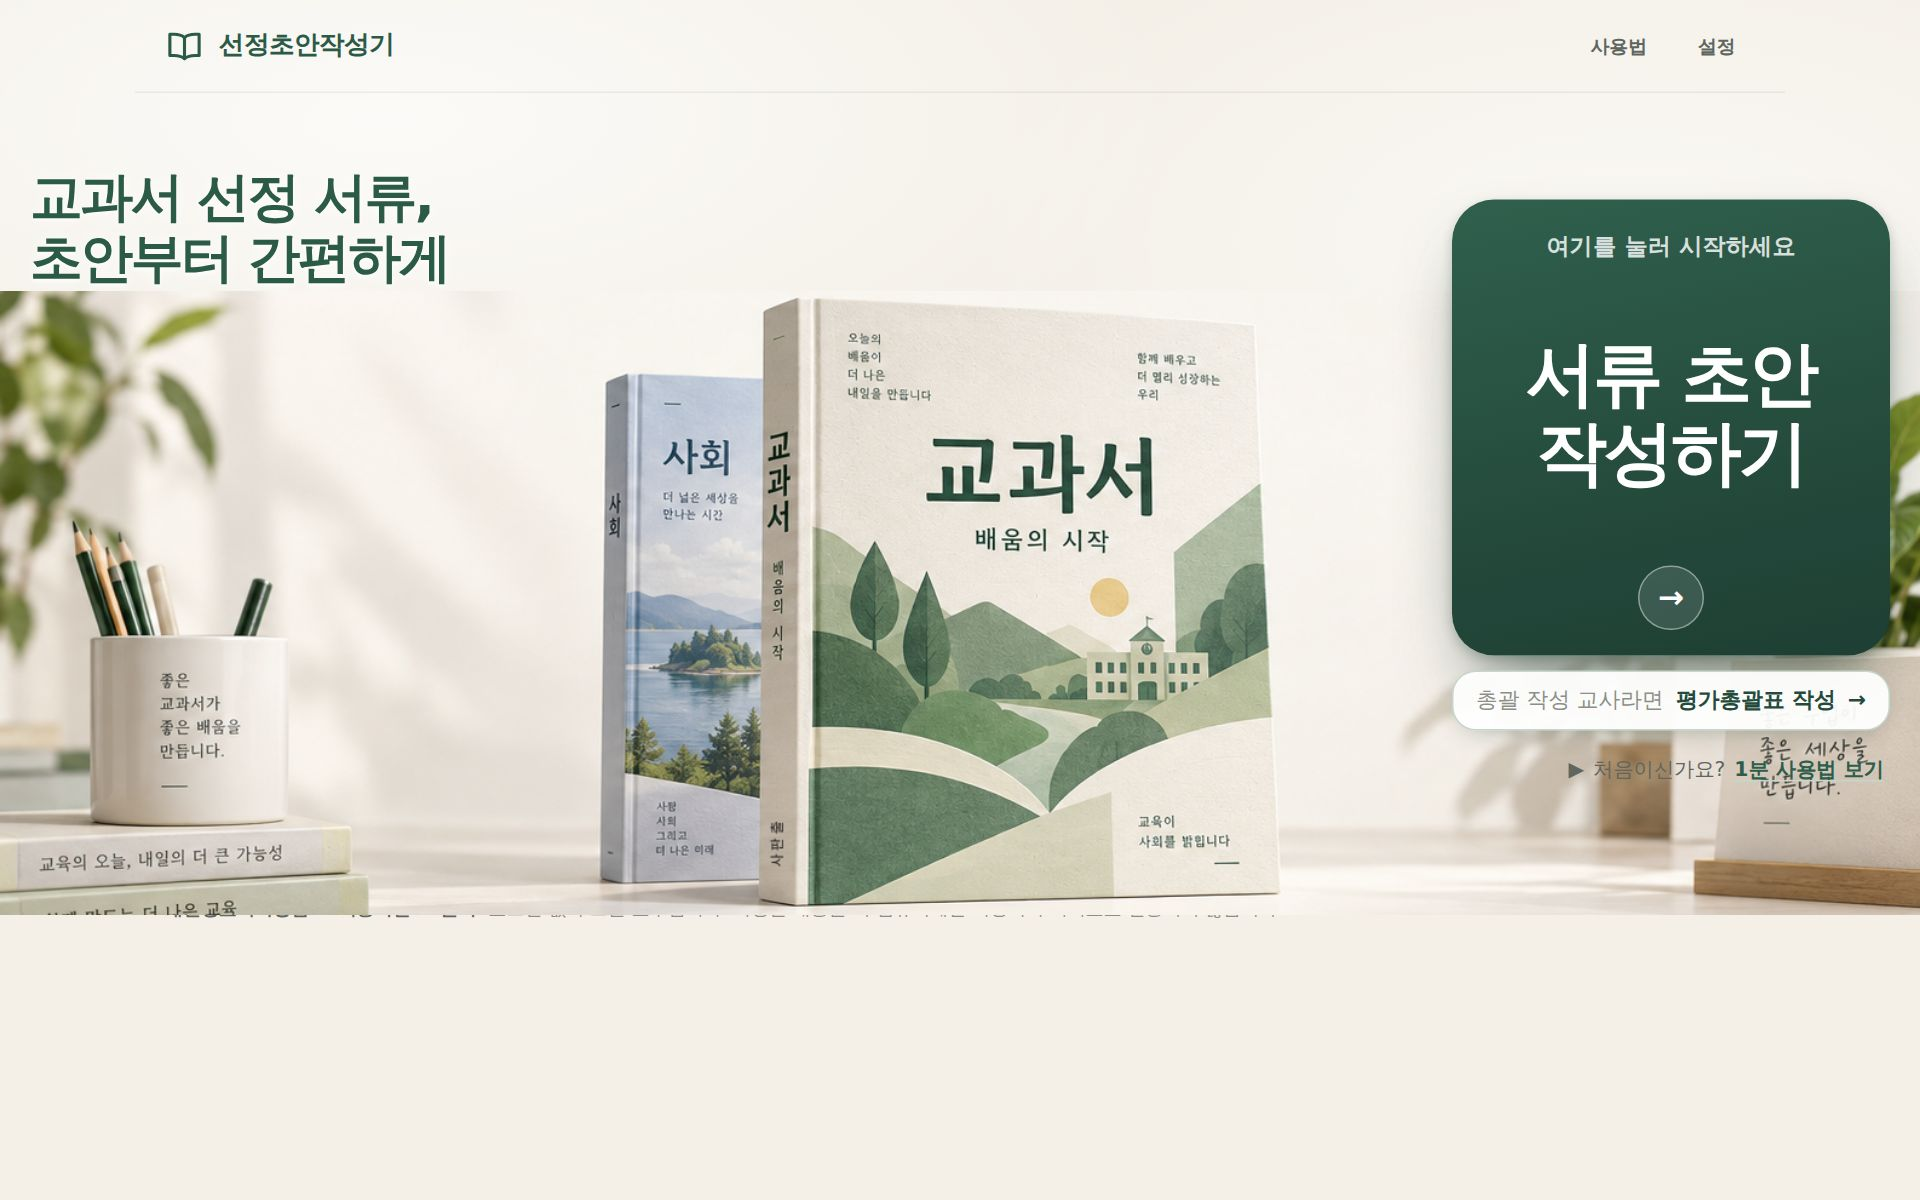
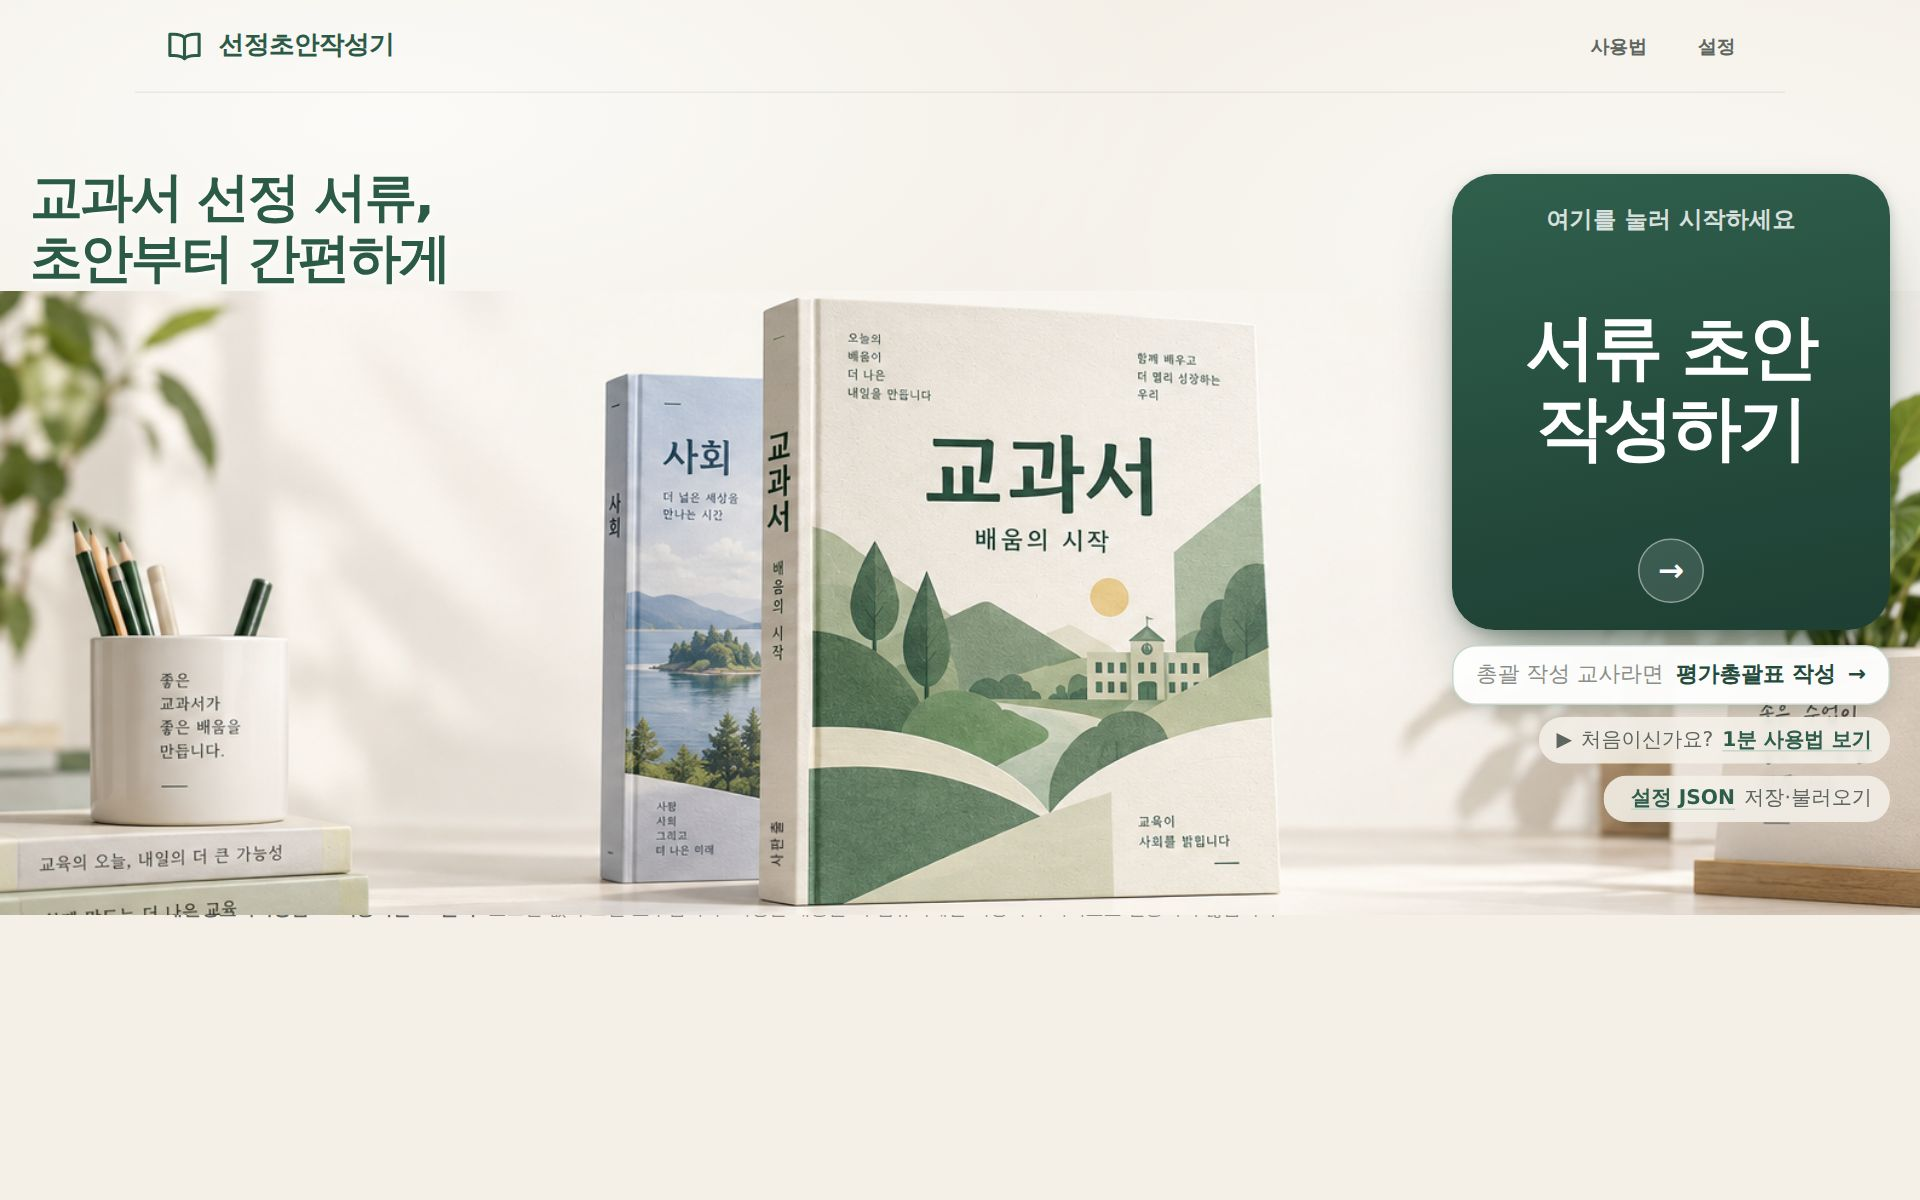
설정 JSON 저장·불러오기 — 단위학교가 같은 평가기준으로 쓰도록
첫 화면 [설정 JSON] 단추 → 창 하나에서 저장(내려받기)과 불러오기(파일 선택)를 한다.
- 담는 것: 평가기준(기본·과목 전용), 의견 선택지, 문서 설정(학교명·학년도·목표 점수 등),
  학교가 직접 넣은 과목·출판사. 교과서 자료(catalog)와 작성한 평가표·총괄표는 넣지 않는다.
- 불러오기: 설정 파일인지 확인(kind: choice-settings)하고, 적용 전에 무엇이 바뀌는지 줄로 보여 준 뒤
  [이 설정으로 바꾸기]로 적용한다. 평가기준·선택지·설정은 파일 것으로 바꾸고 과목·출판사는 없는 것만 더한다.
- 사진 위 글자 링크(사용법·설정 JSON)에 옅은 바탕을 깔아 읽히게 했고, 사용법 캐러셀·README 에 적었다.

검증: 고친 기준 저장 → 초기화한 컴퓨터에 불러오기 → 기준·배점 반영, 교과서 자료 보존, 잘못된 파일 안내,
불러온 기준으로 평가표 생성까지 통과. 첫 화면 한 화면 유지, 캐러셀 회귀 통과.

Claude-Session: https://claude.ai/code/session_01RCs1Brw9A4HvY1UdBXHbwC

Changed region(s): [[0.75, 0.2467, 1.0, 0.7092], [0.75, 0.1233, 1.0, 0.2158]]

diff --git a/src/lib/settingsFile.ts b/src/lib/settingsFile.ts
@@ -1,0 +1,110 @@
+/**
+ * 설정 파일(JSON) — 단위학교가 평가기준·의견 선택지·문서 설정을 한 파일로 나눠 쓰기 위한 것.
+ * 개인 문서(평가표·총괄표)는 넣지 않는다. 앱과 함께 오는 교과서 자료(source: 'catalog')도 빼고,
+ * 학교가 직접 넣은 과목·출판사만 담는다.
+ */
+import type { Criterion, Master, OpinionOption, Publisher, Settings, Subject } from '../types'
+import { DEFAULT_SETTINGS } from '../seed'
+
+export const SETTINGS_FILE_KIND = 'choice-settings'
+
+export interface SettingsFile {
+  _설명?: string
+  kind: typeof SETTINGS_FILE_KIND
+  version: 1
+  exportedAt: string
+  settings: Settings
+  criteria: Criterion[]
+  opinionOptions: OpinionOption[]
+  /** 학교가 직접 넣은 과목·출판사 (교과서 자료에서 온 것은 빼고) */
+  subjects: Subject[]
+  publishers: Publisher[]
+}
+
+export function buildSettingsFile(master: Master): SettingsFile {
+  const subjects = master.subjects.filter((s) => s.source !== 'catalog')
+  const own = new Set(subjects.map((s) => s.id))
+  const publishers = master.publishers.filter((p) => p.source !== 'catalog' && (own.has(p.subjectId) || master.subjects.some((s) => s.id === p.subjectId)))
+  return {
+    _설명: '선정초안작성기 설정 파일. 첫 화면의 [설정 JSON] → [불러오기]로 다른 컴퓨터에 그대로 옮길 수 있습니다. 평가기준·의견 선택지·문서 설정과 직접 넣은 과목·출판사가 들어 있고, 작성한 평가표는 들어 있지 않습니다.',
+    kind: SETTINGS_FILE_KIND,
+    version: 1,
+    exportedAt: new Date().toISOString(),
+    settings: master.settings,
+    criteria: master.criteria,
+    opinionOptions: master.opinionOptions,
+    subjects,
+    publishers,
+  }
+}
+
+export function settingsFileName(master: Master): string {
+  const school = (master.settings.schoolName || '').trim() || '학교'
+  return `선정초안작성기 설정_${school}_${new Date().toISOString().slice(0, 10)}.json`
+}
+
+/** 파일 내용을 검사한다. 문제가 있으면 이유를 던진다 */
+export function parseSettingsFile(text: string): SettingsFile {
+  let raw: unknown
+  try {
+    raw = JSON.parse(text)
+  } catch {
+    throw new Error('JSON 파일이 아닙니다.')
+  }
+  const f = raw as Partial<SettingsFile>
+  if (!f || typeof f !== 'object' || f.kind !== SETTINGS_FILE_KIND) {
+    throw new Error('선정초안작성기 설정 파일이 아닙니다. 첫 화면의 [설정 JSON] → [저장]으로 만든 파일을 골라 주세요.')
+  }
+  const criteria = Array.isArray(f.criteria) ? f.criteria.filter((c) => c && typeof c.area === 'string' && typeof c.text === 'string') : []
+  if (!criteria.length) throw new Error('파일에 평가기준이 없습니다.')
+  return {
+    kind: SETTINGS_FILE_KIND,
+    version: 1,
+    exportedAt: typeof f.exportedAt === 'string' ? f.exportedAt : '',
+    settings: { ...DEFAULT_SETTINGS, ...(f.settings || {}) },
+    criteria: criteria.map((c, i) => ({ ...c, id: c.id || `crit-file-${i + 1}`, subjectId: c.subjectId ?? null, points: Number(c.points) || 0, locked: !!c.locked, order: Number(c.order) || i + 1 })),
+    opinionOptions: Array.isArray(f.opinionOptions) ? f.opinionOptions : [],
+    subjects: Array.isArray(f.subjects) ? f.subjects.filter((s) => s && s.id && s.name) : [],
+    publishers: Array.isArray(f.publishers) ? f.publishers.filter((p) => p && p.id && p.subjectId && p.name) : [],
+  }
+}
+
+export interface ApplyResult {
+  master: Master
+  /** 무엇이 바뀌었는지 사람에게 보여 줄 줄 */
+  lines: string[]
+}
+
+/**
+ * 파일의 설정을 이 컴퓨터에 적용한다.
+ * 평가기준·의견 선택지·문서 설정은 파일 것으로 바꾸고, 과목·출판사는 없는 것만 더한다
+ * (교과서 자료에서 온 것과 이미 있는 것은 그대로).
+ */
+export function applySettingsFile(master: Master, f: SettingsFile): ApplyResult {
+  const haveSubject = new Set(master.subjects.map((s) => s.id))
+  const newSubjects = f.subjects.filter((s) => !haveSubject.has(s.id))
+  const allSubjects = [...master.subjects, ...newSubjects]
+  const subjectIds = new Set(allSubjects.map((s) => s.id))
+  const havePub = new Set(master.publishers.map((p) => p.id))
+  const newPubs = f.publishers.filter((p) => !havePub.has(p.id) && subjectIds.has(p.subjectId))
+
+  const lines = [
+    `평가기준 ${f.criteria.filter((c) => c.subjectId === null).length}항목 (배점 합 ${f.criteria.filter((c) => c.subjectId === null).reduce((s, c) => s + c.points, 0)}점)` +
+      (f.criteria.some((c) => c.subjectId !== null) ? ` · 과목 전용 기준 ${new Set(f.criteria.filter((c) => c.subjectId !== null).map((c) => c.subjectId)).size}과목` : ''),
+    f.opinionOptions.length ? `의견 선택지 ${f.opinionOptions.length}개` : '의견 선택지: 파일에 없어 지금 것을 둡니다',
+    `문서 설정 (학교명 ${f.settings.schoolName || '-'} · ${f.settings.year || '-'}학년도 · 목표 점수 ${f.settings.targetScores.r1}/${f.settings.targetScores.r2}/${f.settings.targetScores.r3})`,
+    newSubjects.length || newPubs.length ? `직접 넣은 과목 ${newSubjects.length}개 · 출판사 ${newPubs.length}곳 추가` : '직접 넣은 과목·출판사: 새로 더할 것 없음',
+  ]
+
+  return {
+    master: {
+      ...master,
+      settings: f.settings,
+      criteria: f.criteria,
+      opinionOptions: f.opinionOptions.length ? f.opinionOptions : master.opinionOptions,
+      subjects: allSubjects,
+      publishers: [...master.publishers, ...newPubs],
+    },
+    lines,
+  }
+}

diff --git a/src/components/SettingsJsonModal.tsx b/src/components/SettingsJsonModal.tsx
@@ -1,0 +1,117 @@
+import { useRef, useState } from 'react'
+import { useAppData } from '../store/useAppData'
+import { applySettingsFile, buildSettingsFile, parseSettingsFile, settingsFileName, type SettingsFile } from '../lib/settingsFile'
+import { download } from '../lib/hwpx'
+import { readFileText } from '../lib/csv'
+
+/**
+ * 첫 화면의 [설정 JSON] 창.
+ * 단위학교가 평가기준·의견 선택지·문서 설정을 파일 하나로 나눠 쓰기 위한 저장·불러오기.
+ */
+export function SettingsJsonModal({ onClose }: { onClose: () => void }) {
+  const { master, saveMaster } = useAppData()
+  const fileRef = useRef<HTMLInputElement>(null)
+  const [pending, setPending] = useState<{ file: SettingsFile; lines: string[] } | null>(null)
+  const [msg, setMsg] = useState<{ type: 'ok' | 'error'; text: string } | null>(null)
+
+  const save = () => {
+    const data = JSON.stringify(buildSettingsFile(master), null, 2)
+    download(new Blob([data], { type: 'application/json' }), settingsFileName(master))
+    setMsg({ type: 'ok', text: '설정 파일을 내려받았습니다. 이 파일을 다른 선생님께 보내면 됩니다.' })
+  }
+
+  const pick = async (files: FileList | null) => {
+    const f = files?.[0]
+    if (!f) return
+    setMsg(null)
+    try {
+      const file = parseSettingsFile(await readFileText(f))
+      setPending({ file, lines: applySettingsFile(master, file).lines })
+    } catch (e) {
+      setMsg({ type: 'error', text: (e as Error).message })
+    }
+    if (fileRef.current) fileRef.current.value = ''
+  }
+
+  const apply = async () => {
+    if (!pending) return
+    await saveMaster(applySettingsFile(master, pending.file).master)
+    setPending(null)
+    setMsg({ type: 'ok', text: '설정을 불러왔습니다. 작성 중인 평가표는 새 기준으로 다시 그려집니다.' })
+  }
+
+  const crit = master.criteria.filter((c) => c.subjectId === null)
+  return (
+    <div className="modal-backdrop" onClick={onClose}>
+      <div className="modal settings-json" onClick={(e) => e.stopPropagation()} role="dialog" aria-label="설정 JSON">
+        <div className="modal-head">
+          <h3>설정 JSON — 학교 안에서 같은 기준으로</h3>
+          <button className="btn sm ghost" onClick={onClose} aria-label="닫기">
+            ✕
+          </button>
+        </div>
+        <div className="modal-body">
+          <p className="muted small">
+            평가기준·의견 선택지·문서 설정(학교명·학년도·목표 점수)과 직접 넣은 과목·출판사를 파일 하나로 저장합니다. 담당 선생님이 저장해 보내고, 다른 선생님은 불러오면 같은 기준으로
+            작성할 수 있습니다. <b>작성한 평가표·총괄표는 들어가지 않습니다.</b>
+          </p>
+          {msg && <div className={`alert ${msg.type}`}>{msg.text}</div>}
+
+          {pending ? (
+            <div className="json-pending">
+              <h4>이 파일의 내용으로 바꿉니다</h4>
+              <ul className="notice-list">
+                {pending.lines.map((l) => (
+                  <li key={l}>{l}</li>
+                ))}
+              </ul>
+              <p className="muted small">지금 컴퓨터의 평가기준·의견 선택지·문서 설정은 파일 것으로 바뀝니다. 과목·출판사는 없는 것만 더해집니다.</p>
+            </div>
+          ) : (
+            <div className="json-actions">
+              <div className="json-card">
+                <b>저장하기</b>
+                <p className="muted small">
+                  지금 설정을 파일로 내려받습니다.
+                  <br />
+                  기본 평가기준 {crit.length}항목 · 배점 합 {crit.reduce((s, c) => s + c.points, 0)}점
+                </p>
+                <button className="btn primary" onClick={save}>
+                  설정 JSON 저장
+                </button>
+              </div>
+              <div className="json-card">
+                <b>불러오기</b>
+                <p className="muted small">
+                  받은 설정 파일을 골라 이 컴퓨터에 적용합니다.
+                  <br />
+                  적용 전에 바뀌는 내용을 먼저 보여 줍니다.
+                </p>
+                <button className="btn" onClick={() => fileRef.current?.click()}>
+                  설정 JSON 불러오기
+                </button>
+                <input ref={fileRef} type="file" accept="application/json,.json" hidden onChange={(e) => pick(e.target.files)} />
+              </div>
+            </div>
+          )}
+        </div>
+        <div className="modal-foot">
+          {pending ? (
+            <>
+              <button className="btn" onClick={() => setPending(null)}>
+                취소
+              </button>
+              <button className="btn primary" onClick={apply}>
+                이 설정으로 바꾸기
+              </button>
+            </>
+          ) : (
+            <button className="btn" onClick={onClose}>
+              닫기
+            </button>
+          )}
+        </div>
+      </div>
+    </div>
+  )
+}

diff --git a/src/styles.css b/src/styles.css
@@ -370,12 +370,27 @@ td.num { text-align: center; }
 .guide-zoom { flex-direction: column; gap: 12px; cursor: zoom-out; padding: 24px; }
 .guide-zoom img { max-width: 100%; max-height: 82vh; border-radius: 8px; box-shadow: 0 18px 50px rgba(0,0,0,0.4); background: #fff; }
 
+/* 설정 JSON 저장·불러오기 창 */
+.modal.settings-json { width: min(640px, 100%); }
+.json-actions { display: grid; grid-template-columns: 1fr 1fr; gap: 12px; margin-top: 10px; }
+.json-card { background: var(--sur-sub); border: 1px solid var(--line); border-radius: var(--radius-sm); padding: 14px 16px; display: flex; flex-direction: column; gap: 8px; }
+.json-card b { font-size: 15px; color: var(--title); }
+.json-card p { margin: 0; flex: 1 1 auto; line-height: 1.6; }
+.json-card .btn { align-self: flex-start; }
+.json-pending h4 { margin: 8px 0 6px; font-size: 14.5px; color: var(--title); }
+@media (max-width: 640px) { .json-actions { grid-template-columns: 1fr; } }
+.hero-links { display: flex; flex-direction: column; align-items: flex-end; gap: 0; }
+@media (max-width: 760px) { .hero-links { align-items: center; } }
+
 /* 시작 화면의 사용법 링크 */
 .hero-guide {
   display: inline-flex; align-items: center; gap: 6px; align-self: flex-end;
-  margin-top: 10px; padding: 6px 4px; border: 0; background: none; cursor: pointer;
+  margin-top: 8px; padding: 5px 12px; border: 0; cursor: pointer; border-radius: 999px;
+  /* 사진 위에 얹히므로 옅은 바탕을 깔아 글자가 읽히게 한다 */
+  background: rgba(244, 240, 232, 0.88); backdrop-filter: blur(3px);
   color: var(--text-2); font-size: 13.5px; font-weight: 500;
 }
+.hero-guide:hover { background: rgba(255, 255, 255, 0.95); }
 .hero-guide b { color: var(--primary); font-weight: 700; text-decoration: underline; text-underline-offset: 3px; text-decoration-color: var(--primary-soft-line); }
 .hero-guide:hover b { text-decoration-color: currentColor; }
 

diff --git a/src/pages/Guide.tsx b/src/pages/Guide.tsx
@@ -45,6 +45,7 @@ const EXTRAS: { icon: string; title: string; body: string }[] = [
   { icon: '📝', title: '한글(hwpx)로도 저장', body: '교육청 원본 서식 파일에 값만 채워 내려받습니다. 한글에서 열어 바로 고칠 수 있습니다.' },
   { icon: '📱', title: '휴대전화에서도 작성', body: '설치할 것이 없습니다. 주소만 열면 휴대전화·태블릿에서도 같은 화면을 씁니다.' },
   { icon: '🧾', title: '빠진 과목은 직접 추가', body: '목록에 없는 과목·발행사는 작성 화면이나 [설정]에서 바로 넣어 쓸 수 있습니다.' },
+  { icon: '🔁', title: '학교 안에서 같은 기준으로', body: '첫 화면 [설정 JSON]으로 평가기준·설정을 파일로 저장하고 불러와 위원들이 같은 기준으로 작성합니다.' },
 ]
 
 const SLIDES: Slide[] = [
@@ -63,7 +64,11 @@ const SLIDES: Slide[] = [
     step: '1단계',
     title: '시작 화면에서 [서류 초안 작성하기]',
     lead: '교과 위원이라면 큰 초록 버튼을, 총괄표를 맡았다면 그 아래 [평가총괄표 작성]을 누릅니다.',
-    points: ['가입·로그인 화면이 없습니다. 누르면 바로 작성 화면입니다.', '오른쪽 위 [설정]에서는 평가기준과 교과서 자료를 볼 수 있습니다.'],
+    points: [
+      '가입·로그인 화면이 없습니다. 누르면 바로 작성 화면입니다.',
+      '오른쪽 위 [설정]에서는 평가기준과 교과서 자료를 볼 수 있습니다.',
+      '[설정 JSON]으로 학교의 평가기준·설정을 파일 하나로 저장해 다른 선생님께 보내고, 받은 파일은 불러와 같은 기준으로 씁니다.',
+    ],
     img: '01-start.jpg',
     alt: '앱 첫 화면과 [서류 초안 작성하기] 버튼',
   },

diff --git a/src/pages/Start.tsx b/src/pages/Start.tsx
@@ -1,4 +1,5 @@
 import { useEffect, useState } from 'react'
+import { SettingsJsonModal } from '../components/SettingsJsonModal'
 
 /** 문구·버튼이 없는 책·책상 부분만 잘라 둔 사진 (public/hero-band.png) */
 const HERO_URL = `${import.meta.env.BASE_URL}hero-band.png`
@@ -62,6 +63,7 @@ function FrontCoverArt() {
 
 export function Start({ go }: { go: (h: string) => void }) {
   const heroImg = useHeroImage()
+  const [jsonOpen, setJsonOpen] = useState(false)
   if (heroImg === null) return <section className="hero-split" style={{ minHeight: 560 }} />
 
   return (
@@ -107,10 +109,16 @@ export function Start({ go }: { go: (h: string) => void }) {
         <button className="chip-pill" onClick={() => go('compile')}>
           <span className="chip-sub">총괄 작성 교사라면</span> 평가총괄표 작성 <span aria-hidden="true">→</span>
         </button>
-        <button className="hero-guide" onClick={() => go('guide')}>
-          <span aria-hidden="true">▶</span> 처음이신가요? <b>1분 사용법 보기</b>
-        </button>
+        <div className="hero-links">
+          <button className="hero-guide" onClick={() => go('guide')}>
+            <span aria-hidden="true">▶</span> 처음이신가요? <b>1분 사용법 보기</b>
+          </button>
+          <button className="hero-guide" onClick={() => setJsonOpen(true)} title="학교 안에서 평가기준·설정을 파일로 나눠 쓰기">
+            <span aria-hidden="true">{ }</span> <b>설정 JSON</b> 저장·불러오기
+          </button>
+        </div>
       </div>
+      {jsonOpen && <SettingsJsonModal onClose={() => setJsonOpen(false)} />}
     </section>
   )
 }

diff --git a/README.md b/README.md
@@ -38,6 +38,7 @@
 | 한글(hwpx) 저장 | 교육청 원본 서식(`assets/선정계획안-원본서식.hwpx`)에서 뽑아 둔 XML(`public/forms/`)의 표 칸에 값만 채워 브라우저에서 hwpx(zip)로 묶어 내려받는다. 서식1+서식3(위원), 서식2+서식3(총괄)이 한 파일. 원본 서식 한도: 출판사 16곳 · 위원 7명 |
 | 총괄표 | ① 작성자·과목 입력 + 위원 PDF·JSON 올리기 → [총괄표 생성하기] → ② 평가 총괄표·추천 의견서 확인·편집 → ③ 인쇄·PDF·JSON 저장 |
 | 설정 | 교과서 자료 현황·다시 불러오기, 선정 과목 관리(목록 붙여넣기·CSV·개별 추가/수정/삭제), 과목별 출판사 관리, 평가기준 |
+| 설정 JSON | 첫 화면 [설정 JSON] → 평가기준·의견 선택지·문서 설정·직접 넣은 과목/출판사를 파일 하나로 저장·불러오기(`src/lib/settingsFile.ts`). 교과서 자료(catalog)와 작성한 평가표는 넣지 않는다. 불러올 때 바뀌는 내용을 먼저 보여 주고 확인 뒤 적용 |
 | 사용 설명 (`#/guide`) | 실제 화면 사진으로 만든 16장짜리 안내 캐러셀. 첫 화면의 [1분 사용법 보기], 위쪽 [사용법] 단추로 들어갑니다. 사진은 `public/guide/*.jpg` 이며 `scripts` 없이 앱에서 그대로 읽습니다 |
 
 ### 의견 작성
